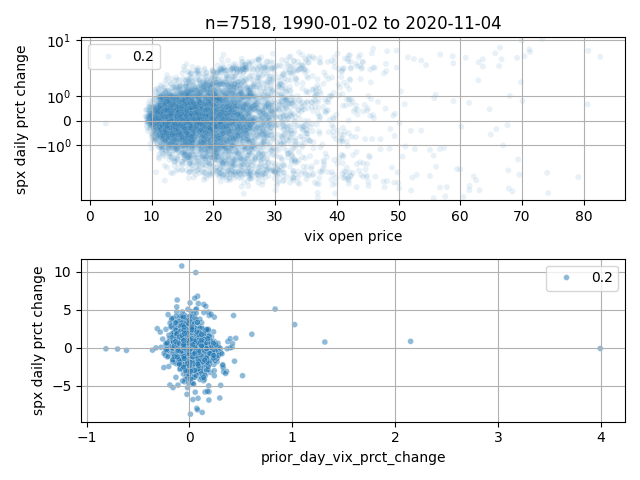
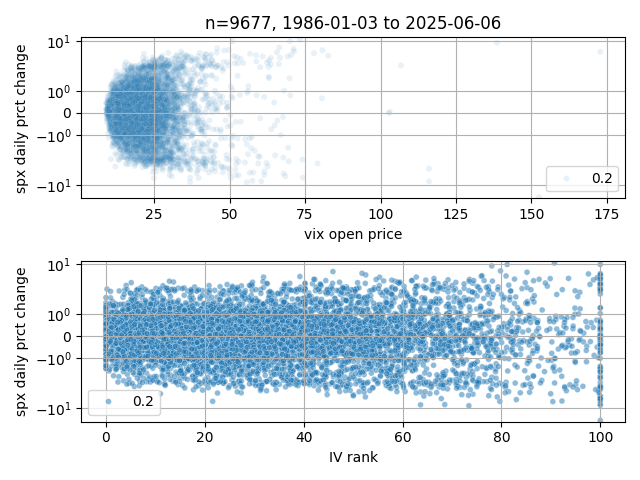
wip

diff --git a/scratch/archive/jiajun/run_jiajun_data.py b/scratch/archive/jiajun/run_jiajun_data.py
@@ -1,0 +1,89 @@
+import datetime
+import numpy as np
+import pandas as pd
+import matplotlib.pyplot as plt
+import seaborn as sns
+
+def main():
+    spx_df = pd.read_csv("SPX_dailyOHLC.csv")
+    # tradeday_ID,Symbol,Open,High,Low,Close,Date,Weekday
+    spx_df['tstamp'] = spx_df.Date.apply(lambda x: datetime.datetime.strptime(x,"%Y-%m-%d"))
+    spx_df = spx_df.rename(columns={"Open":"spx_open","High":"spx_high","Low":"spx_low","Close":"spx_close"})
+    cols = ['tstamp','spx_open','spx_high','spx_low','spx_close']
+    spx_df = spx_df[cols]
+    print(spx_df.shape)
+
+    # DATE,OPEN,HIGH,LOW,CLOSE
+    # 01/02/1990
+    vix_df = pd.read_csv("VIX_dailyOHLC.csv")
+    vix_df['tstamp'] = vix_df.Date.apply(lambda x: datetime.datetime.strptime(x,"%Y-%m-%d"))
+    vix_df = vix_df.rename(columns={"Open":"vix_open","High":"vix_high","Low":"vix_low","Close":"vix_close"})
+    cols = ['tstamp','vix_high','vix_open','vix_low','vix_close']
+    vix_df = vix_df[cols]
+    print(vix_df.shape)
+
+    df = vix_df.merge(spx_df,how='left',on=['tstamp'])
+    df = df.dropna()
+    min_tstamp = df.tstamp.min().strftime('%Y-%m-%d')
+    max_tstamp = df.tstamp.max().strftime('%Y-%m-%d')
+    print(df.head())
+    print(df.shape)
+
+    df['prct_change'] = 100*(df.spx_close-df.spx_open)/df.spx_open
+    df.to_csv("history.csv",index=False)
+
+    # https://www.tastylive.com/concepts-strategies/implied-volatility-rank-percentile
+    def iv_rank(w):
+        return 100* ( w.iloc[-1] - np.min(w) ) / (np.max(w)-np.min(w))
+
+    df['iv_rank'] =df.vix_open.rolling(252).apply(iv_rank)
+
+    df['prior_day_vix_close']=df.vix_close.shift()
+    df['prior_day_vix_open']=df.vix_open.shift()
+    df['prior_day_vix_prct_change']=(df.vix_open-df.prior_day_vix_open)/df.prior_day_vix_open
+    print(df.prior_day_vix_prct_change.min(),df.prior_day_vix_prct_change.max())
+    df = df.dropna()
+
+    fig = plt.figure()
+    ax = fig.add_subplot(2,1,1)
+    # palette = sns.color_palette("bwr", as_cmap=True) # red is vol spike
+    # sns.scatterplot(df,x='vix_open',y='prct_change',palette=palette,markers='+',
+    #     hue='prior_day_vix_prct_change',hue_norm=(-0.5,0.5),alpha=0.5,size=1,ax=ax,legend=False)
+    sns.scatterplot(df,x='vix_open',y='prct_change',alpha=0.1,size=0.2,ax=ax,markers=['+']*len(df))
+    ax.set_yscale('symlog')
+    plt.xlabel('vix open price')
+    plt.ylabel('spx daily prct change')
+    plt.title(f"n={len(df)}, {min_tstamp} to {max_tstamp}")
+    plt.grid(True)
+
+    ax = fig.add_subplot(2,1,2)
+    sns.scatterplot(df,x='iv_rank',y='prct_change',alpha=0.5,size=0.2,ax=ax)
+    ax.set_yscale('symlog')
+    plt.xlabel('IV rank')
+    plt.ylabel('spx daily prct change')
+    plt.grid(True)
+
+    plt.tight_layout()
+    plt.savefig("prct_change.png")
+    plt.close()
+
+
+    fig = plt.figure()
+    plt.subplot(311)
+    plt.plot(df.tstamp,df.spx_close)
+    plt.title("SPX")
+    plt.grid(True)
+    plt.subplot(312)
+    plt.plot(df.tstamp,df.vix_close)
+    plt.title("VIX")
+    plt.grid(True)
+    plt.subplot(313)
+    plt.plot(df.tstamp,df.iv_rank)
+    plt.title("IV rank")
+    plt.grid(True)
+    plt.savefig("price.png")
+    plt.close()
+
+
+if __name__ == "__main__":
+    main()
